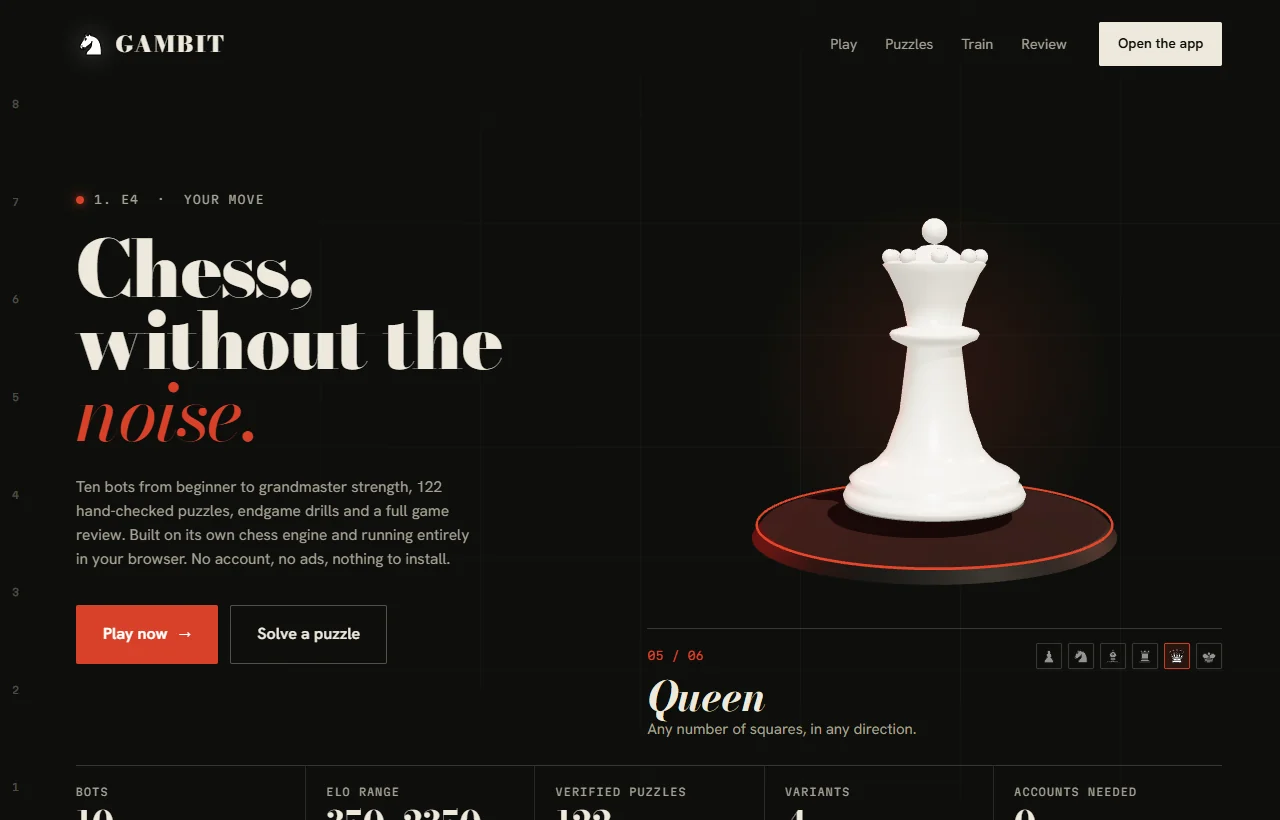
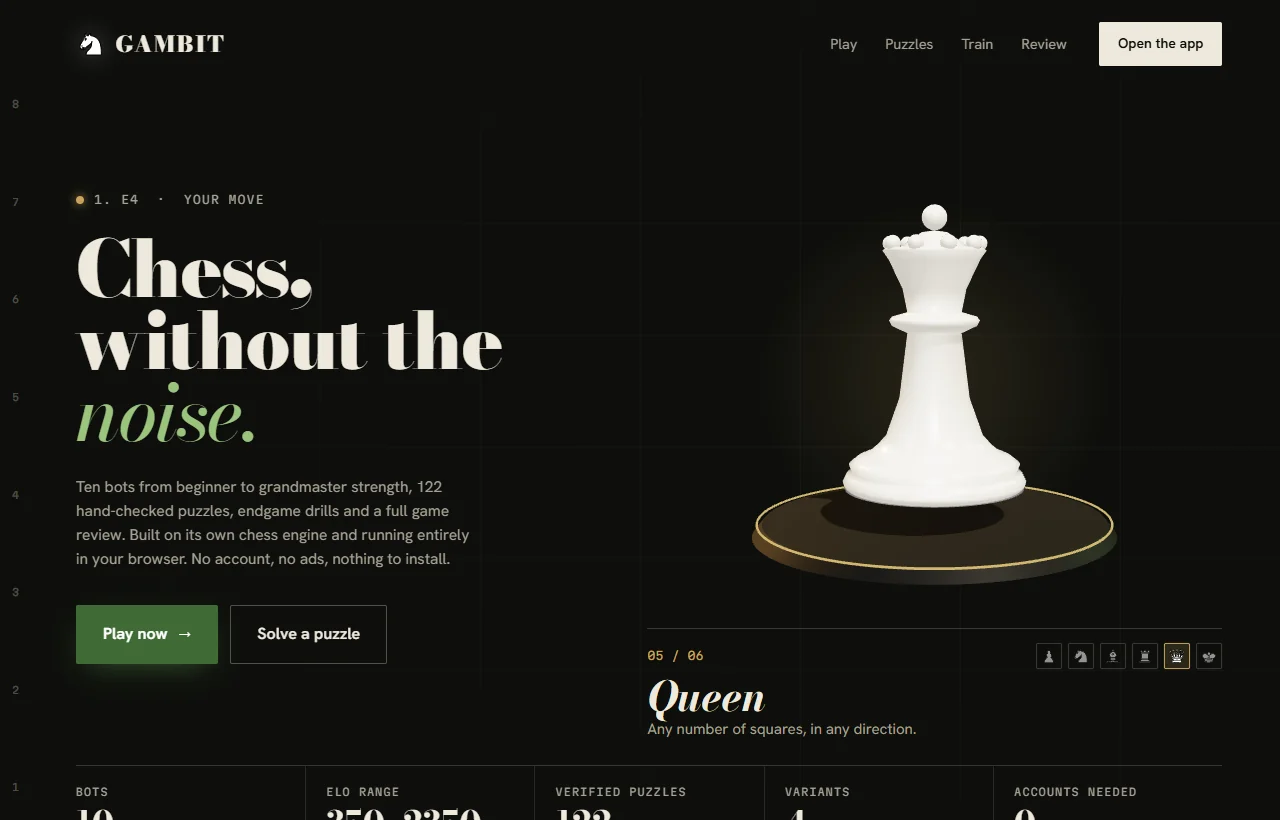
GAMBIT card: screenshot with the new board-green/brass colours

diff --git a/projekte.html b/projekte.html
@@ -111,7 +111,7 @@
       <div class="pgrid">
         <a class="pcard" href="https://notdom1n1c.github.io/gambit/" target="_blank" rel="noopener"
            aria-label="GAMBIT live öffnen (neuer Tab)">
-          <div class="pcard__shot" style="background-image:url('assets/gambit.webp')"></div>
+          <div class="pcard__shot" style="background-image:url('assets/gambit.webp?v=2')"></div>
           <span class="pcard__go" aria-hidden="true">&#8599;</span>
           <div class="pcard__body">
             <span class="pcard__nr">B01</span>
